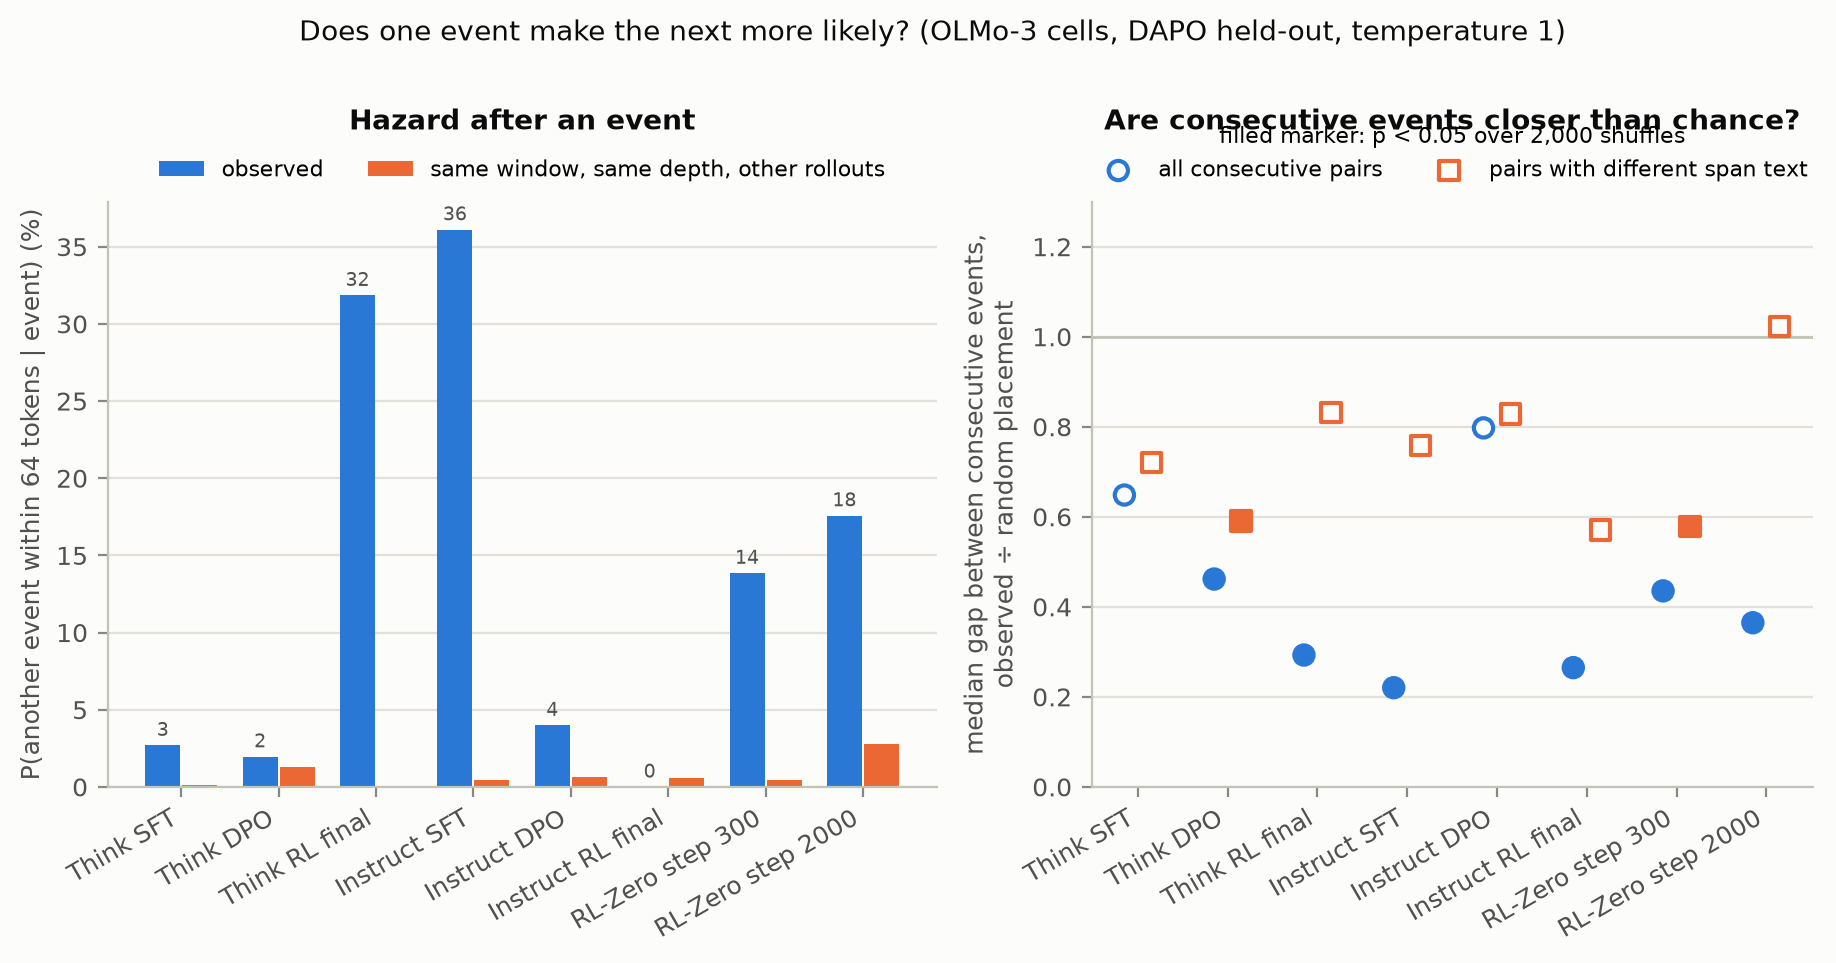
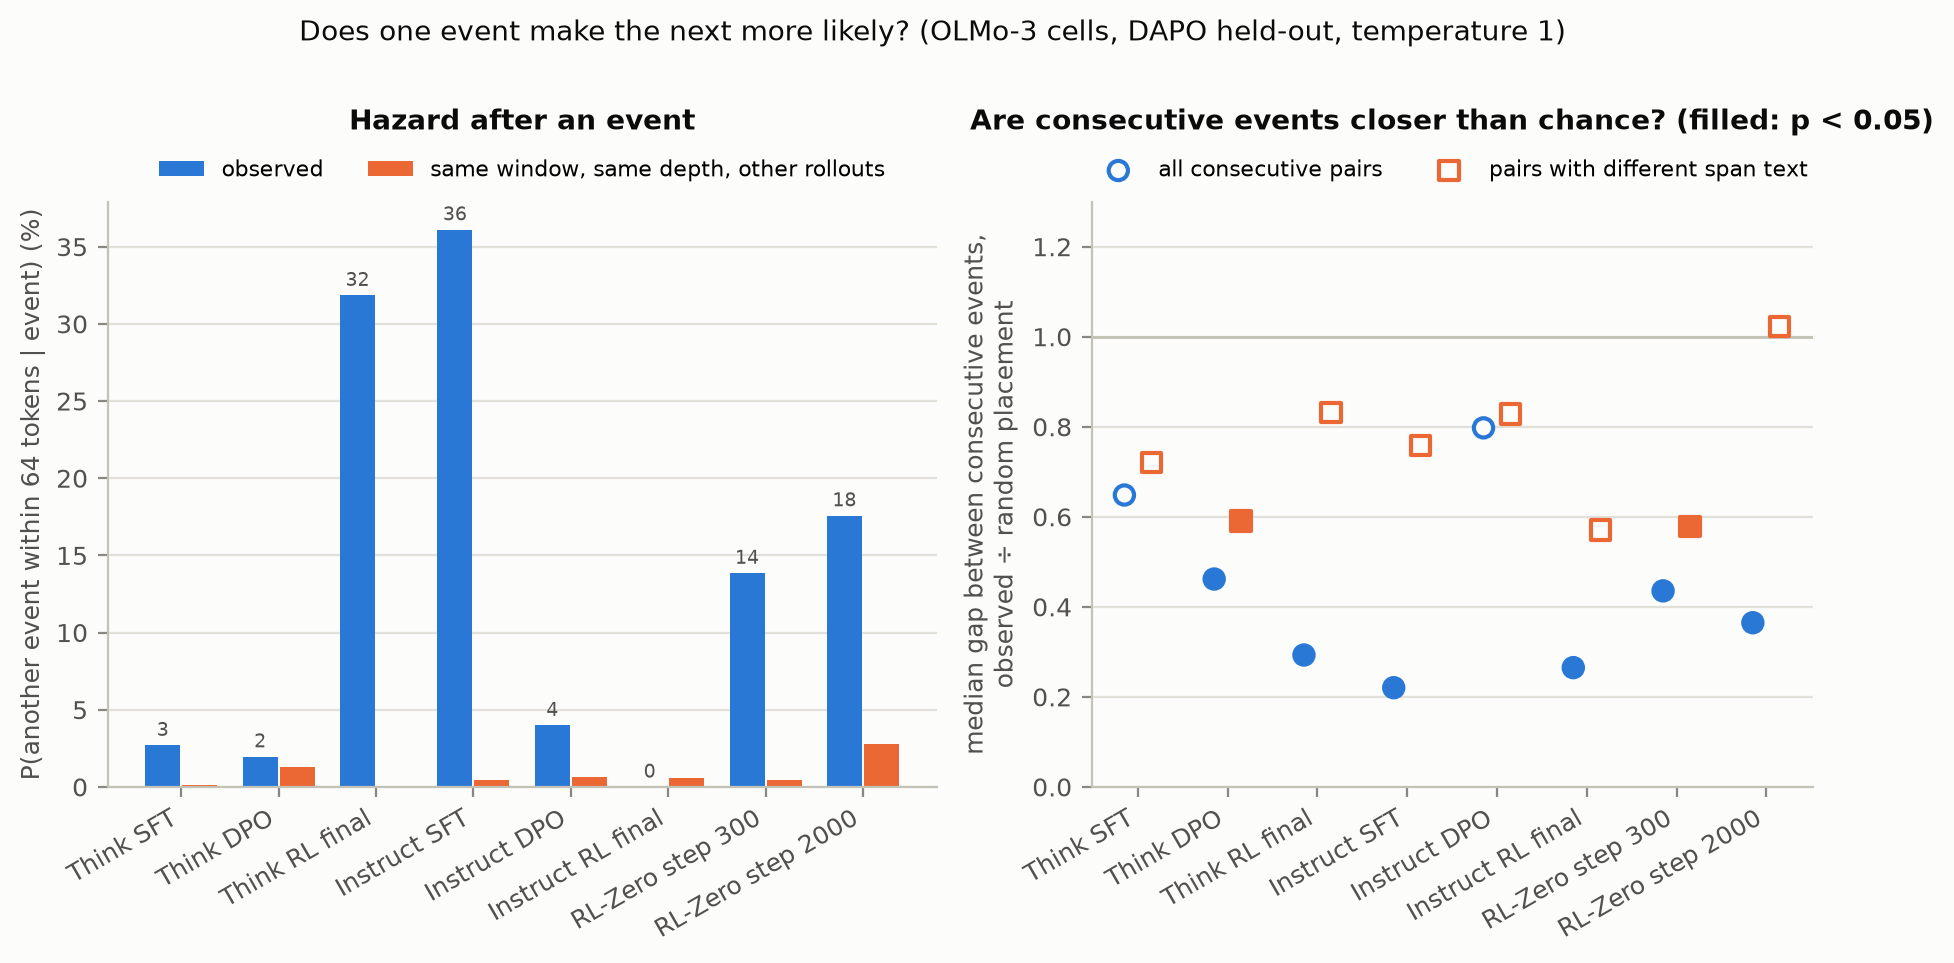
fig5: legend without a title, significance note in the panel title

diff --git a/scripts/figures.py b/scripts/figures.py
@@ -241,8 +241,8 @@ def fig5(B: int = 2000, seed: int = 0) -> None:
     b.set_xticks(x, [c[0] for c in cells], rotation=30, ha="right")
     b.set_ylabel("median gap between consecutive events,\nobserved ÷ random placement")
     b.set_ylim(0, 1.3)
-    b.set_title("Are consecutive events closer than chance?", pad=26)
-    b.legend(loc="lower center", bbox_to_anchor=(0.5, 1.0), ncol=2, title="filled marker: p < 0.05 over 2,000 shuffles", title_fontsize=8)
+    b.set_title("Are consecutive events closer than chance? (filled: p < 0.05)", pad=26)
+    b.legend(loc="lower center", bbox_to_anchor=(0.5, 1.0), ncol=2)
     fig.suptitle("Does one event make the next more likely? (OLMo-3 cells, DAPO held-out, temperature 1)", fontsize=10, color=INK, y=1.12)
     save(fig, "fig5_clustering.png")
 
